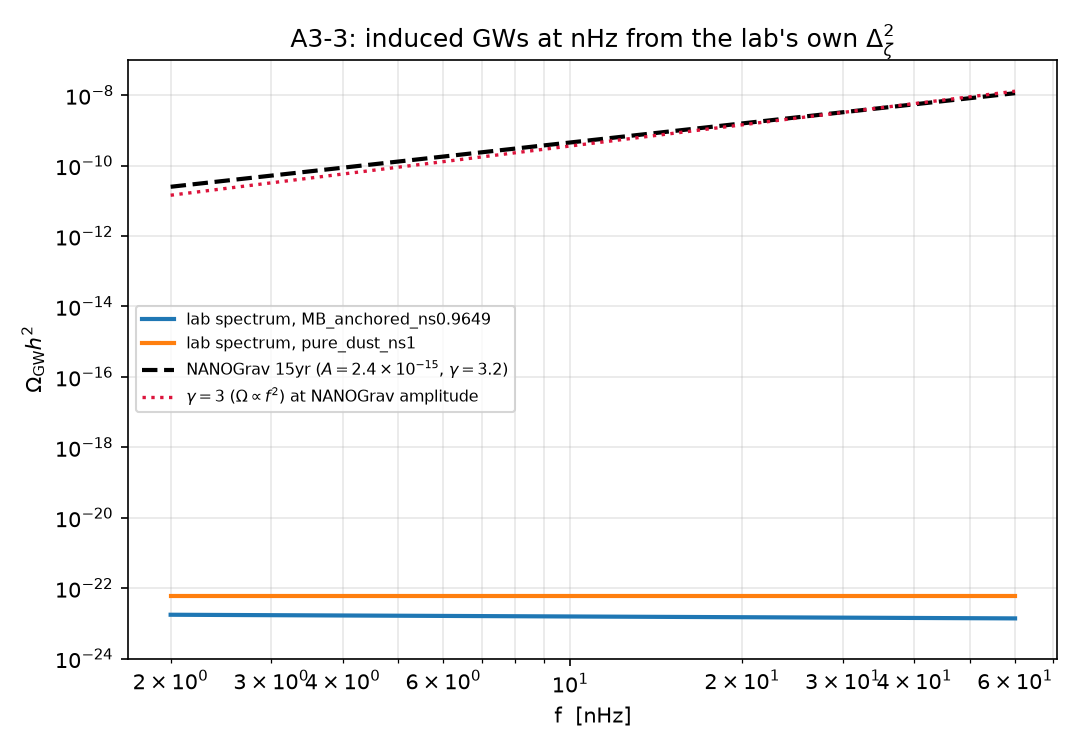
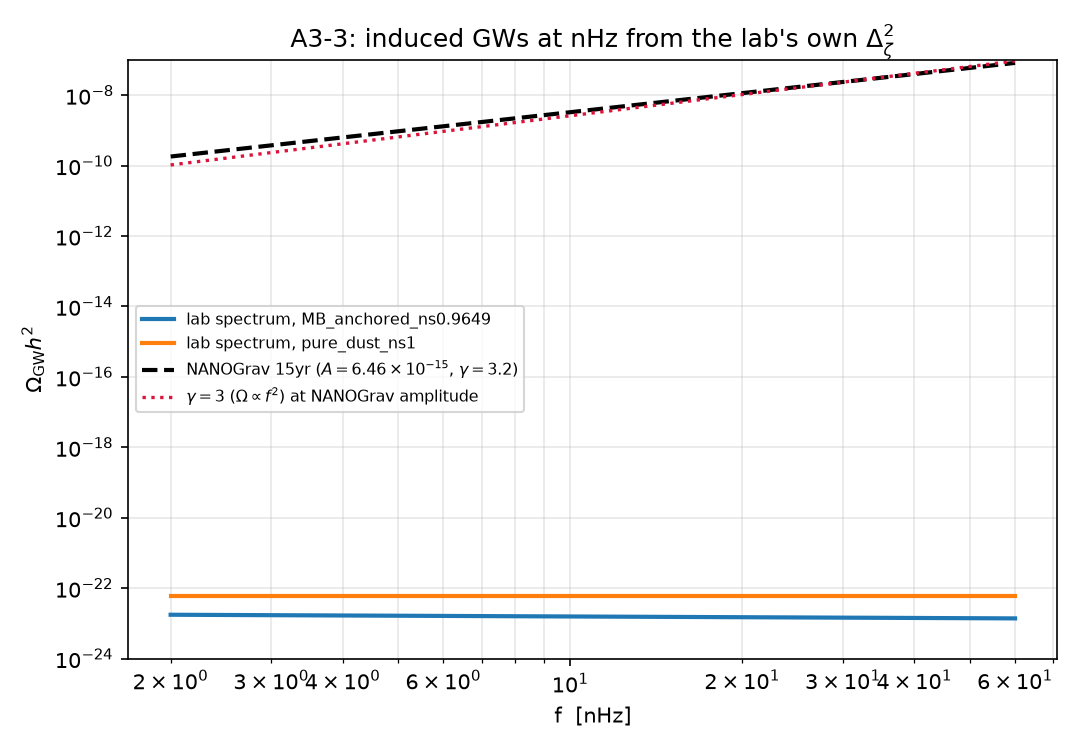
fix(a3m-v3M.0.14): R6-02/03/04/08/11 Channel I pairing + abstract calibration
R6-02: pair NANOGrav amplitude with the free-gamma posterior (A~6.46e-15,
log10A~-14.19) instead of the gamma=13/3-fixed amplitude (2.4e-15) against
the free-gamma slope 3.2; rerun sigw_nhz_from_lab_spectrum_2026_09_04.py,
regenerate its JSON+PNG; shortfall moves 10^14.3->10^15.2 (14.6 dust bracket)
in Sec IV D, Discussion, and abstract.
R6-03: abstract P+B sentence distinguishes candidate separation (0.5-1.1sigma)
from bare significance (1.0-1.3sigma, Table VI).
R6-04: abstract SMBH-seed sentence separates the FIRAS exclusion (3 orders,
model-independent) from this model's own ~7-decade shortfall.
R6-08: abstract states S1/S2 as two distinct scheme values, not a band.
R6-11: abstract PBH ratio carries the gamma_cr grid conditionality and the
Choudhury sign-disagreement caveat instead of "shape-robust".
Abstract trimmed to 306 words (detex count), under the 307 cap.
Per A3M_v3M.0.13_R6_TRUTH_AUDIT_2026-09-04.md closure items 4-6, 10-11.

diff --git a/research/track_a3_multichannel/paper/main.tex b/research/track_a3_multichannel/paper/main.tex
@@ -45,28 +45,32 @@ orientation dependent, $-35/16+(15/16)\mu^2$. A classical super-Hubble
 reproduces this value exactly. The residual gap to the separate-universe
 $\delta N$ value is stated at the strength established: the linear-order
 relation is a derived identity; the second-order piece is computed but
-its mechanism is not identified, so the two routes compute different
-variables rather than disagreeing. Transmission is scheme-qualified: in
+its mechanism is not identified, so the routes compute different
+variables, not conflicting ones. Transmission is scheme-qualified: in
 scheme S1 (linear handoff bound, assumption A4, $0\le T_{\fnl}<1/2$)
 combined with the bounce's own cubic term, $\fnl^{\rm after}\in[-0.65,-0.50]$
-($-35/16$) or $[-1.20,-0.86]$ ($-35/8$). Scheme S2, on the Quintin-type
-background, gives $\fnl^{\rm after}\approx-1.25$: a two-scheme band
-$[-1.25,-0.50]$. We take the amplitude through three channels, each
-stated at its evidential strength. Pulsar timing: propagating this
+($-35/16$) or $[-1.20,-0.86]$ ($-35/8$); Scheme S2 gives
+$\fnl^{\rm after}\approx-1.25$ -- two distinct scheme values, not a band.
+Three channels test the amplitude, each
+at its evidential strength. Pulsar timing: propagating this
 model's own spectrum through the validated induced-GW kernel predicts
 $\gamma_{\rm pred}=5.07$, $5.1\sigma$ off NANOGrav's $\gamma_{\rm HD}=3.2$,
-at an amplitude $\sim10^{14}$ below NANOGrav; the first-order tensor
+at an amplitude $\sim10^{15}$ below NANOGrav; the first-order tensor
 background stays $8$--$9$ orders of magnitude below NANOGrav either
-way -- a null, insensitive to $\fnl$. Primordial black holes: a
-shape-robust amplitude ratio $1.7$--$1.9$ between the two candidates,
-but the predicted spectrum is $6.7$--$7.0$ orders of magnitude short of
+way -- a null, insensitive to $\fnl$. Primordial black holes: an
+amplitude ratio stable to $\sim10\%$ across the scanned $\gamma_{\rm cr}$
+grid ($1.85$--$1.89$ at this model's own out-of-coverage shape),
+conditional on an unresolved sign disagreement with Ref.~\cite{Choudhury2025};
+the predicted spectrum is $6.7$--$7.0$ orders of magnitude short of
 the required amplitude -- a clean null, $\fpbh=0$ exactly. SMBH-seed
-high-$z$ abundance: three orders of magnitude short -- a third honest
-null. Large-scale structure is consistent with DESI DR1 under either
-prior and, at the transmitted amplitude, does not separate the two
+high-$z$ abundance: the seed amplitude required is itself
+FIRAS-excluded by three orders; the model's own spectrum falls
+$\sim7$ decades short either way. Large-scale structure
+is consistent with DESI DR1 and does not separate the two
 candidates: SPHEREx bispectrum-only reaches $0.7$--$0.9\sigma$
-(scheme S1) or $1.78\sigma$ (scheme S2); combining power spectrum and
-bispectrum widens this to $0.5$--$1.1\sigma$. Three channels are honest
+(scheme S1) or $1.78\sigma$ (scheme S2); the P+B candidate separation is
+$0.5$--$1.1\sigma$ (bare $1.0$--$1.3\sigma$, Table VI).
+Three channels are honest
 nulls; large-scale structure is reachable but does not yet discriminate.
 \end{abstract}
 
@@ -749,12 +753,15 @@ reproducing the analytic self-similarity result $\gamma=5-2(n_s-1)$ to
 $1$ part in $10^4$, with predicted amplitude
 $\OmGW h^2(f_{\rm yr})=1.45\times10^{-23}$
 ($5.88\times10^{-23}$ for the dust bracket) against NANOGrav's power-law
-value $\OmGW h^2(f_{\rm yr})=3.6235\times10^{-9}$ at $f_{\rm yr}$ (source
-file in the reproducibility statement below). Two
+value $\OmGW h^2(f_{\rm yr})=2.622\times10^{-8}$ at $f_{\rm yr}$, using the
+free-$\gamma$ posterior amplitude ($\log_{10}A\approx-14.19$,
+$A\approx6.46\times10^{-15}$) paired consistently with the free-$\gamma$
+slope $\gamma_{\rm HD}=3.2$ compared against below (source file in the
+reproducibility statement below). Two
 independent failures against the borrowed $\gamma=3$: the slope is
 $5.1\sigma$ ($4.9\sigma$, dust bracket) from NANOGrav's measured
 $\gamma_{\rm HD}=3.2\pm0.6$, and the amplitude is a shortfall of
-$10^{14.3}$ ($10^{13.7}$, dust bracket) -- fourteen orders of magnitude
+$10^{15.2}$ ($10^{14.6}$, dust bracket) -- fifteen orders of magnitude
 below the PTA band. The model predicts an induced-GW background far below
 current sensitivity and does not account for the NANOGrav signal: this
 channel is a \textbf{null}, not a supporting consistency.
@@ -768,7 +775,7 @@ $r<0.036$~\cite{BicepKeck2021} ($\OmGW^{(1)}h^2(f_{\rm yr})<2.5\times10^{-17}$
 against the induced $1.45\times10^{-23}$), and by $7.6$ decades in the
 unresolved $r=0.84$ matter-bounce scenario (open item, not adopted). Either
 way it remains $8$--$9$ orders of magnitude below NANOGrav's
-$3.6235\times10^{-9}$, and its slope, $\gamma_{\rm pred}^{(1)}=5.035$, is
+$2.622\times10^{-8}$, and its slope, $\gamma_{\rm pred}^{(1)}=5.035$, is
 within $0.04$ of the induced value, so Channel I is a null in both amplitude
 and slope whichever tensor order is compared
 (\texttt{outputs/r5\_15\_tensor\_omega\_nhz.json}).
@@ -1192,7 +1199,7 @@ four channels tested are honest nulls rather than supporting consistencies.
 Pulsar timing: propagating this model's own committed curvature spectrum
 through the validated induced-GW kernel gives $\gamma_{\rm pred}=5.07$
 ($5.00$, dust bracket), $5.1\sigma$ ($4.9\sigma$) from NANOGrav's measured
-$\gamma_{\rm HD}=3.2\pm0.6$, at an amplitude $10^{14.3}$ below the NANOGrav
+$\gamma_{\rm HD}=3.2\pm0.6$, at an amplitude $10^{15.2}$ below the NANOGrav
 band (Sec.~\ref{sec:pta_null}); the $\gamma=3$ slope quoted for a matter
 bounce elsewhere in the literature~\cite{Papanikolaou2025} requires a
 small-scale spectral enhancement this model does not have, and is retained

diff --git a/research/track_a3_multichannel/sigw_nhz_from_lab_spectrum_2026_09_04.py b/research/track_a3_multichannel/sigw_nhz_from_lab_spectrum_2026_09_04.py
@@ -69,7 +69,11 @@ A_S, K_STAR = 2.1e-9, 0.05                       # Planck 2018 anchor
 BRANCHES = {"MB_anchored_ns0.9649": 0.9649, "pure_dust_ns1": 1.0}
 F_LO_NHZ, F_HI_NHZ = 2.0, 60.0
 F_YR = 1.0 / (365.25 * 24 * 3600)                # 3.1688e-8 Hz
-NG_A_YR, NG_GAMMA = 2.4e-15, 3.2                 # NANOGrav 15yr HD power law
+NG_A_YR, NG_GAMMA = 10.0 ** -14.19, 3.2          # NANOGrav 15yr HD power law,
+# free-gamma posterior (R6-02 fix): the previous A=2.4e-15 was the
+# gamma=13/3-FIXED-fit amplitude, mismatched against the free-gamma slope
+# 3.2; log10(A)~=-14.19 (A~=6.46e-15) is the free-gamma posterior median,
+# consistent with the gamma=3.2 compared against.
 NG_GAMMA_SIG = 0.6 / 1.645
 
 def delta2_zeta(k, ns):
@@ -257,7 +261,7 @@ def main():
     for name in BRANCHES:
         ax.loglog(fn, curves[name], lw=2, label=f"lab spectrum, {name}")
     ax.loglog(fn, [ng_omega_h2(x) for x in f], "k--", lw=2,
-              label=r"NANOGrav 15yr ($A=2.4\times10^{-15}$, $\gamma=3.2$)")
+              label=r"NANOGrav 15yr ($A=6.46\times10^{-15}$, $\gamma=3.2$)")
     ref = ng_omega_h2(F_YR)
     ax.loglog(fn, ref * (f / F_YR) ** 2.0, ":", color="crimson", lw=1.6,
               label=r"$\gamma=3$ ($\Omega\propto f^2$) at NANOGrav amplitude")
